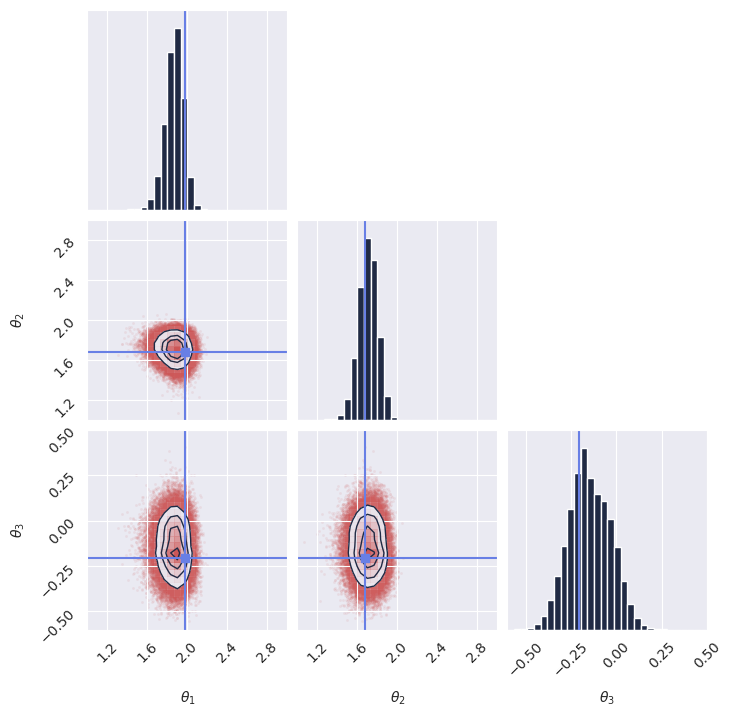
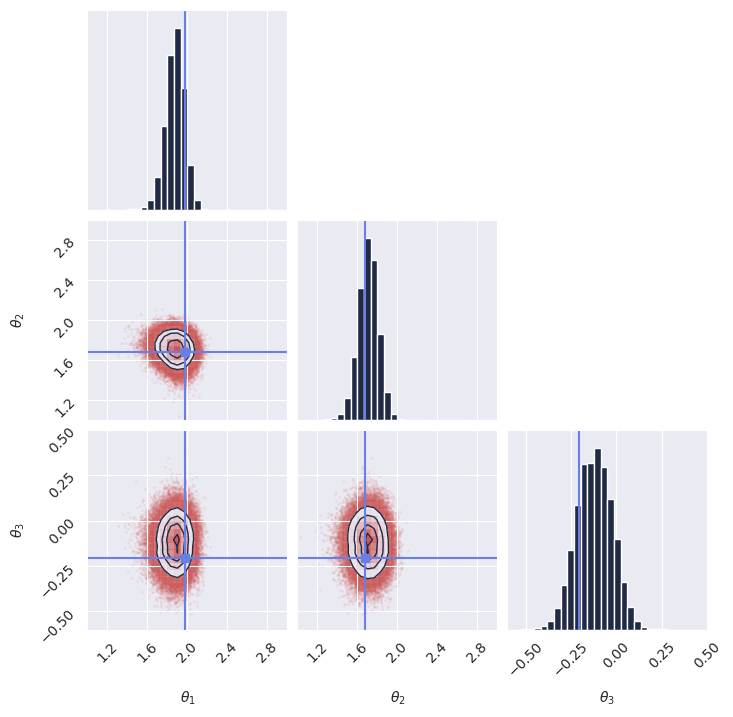
up

diff --git a/docs/basics/contributing.md b/docs/basics/contributing.md
@@ -15,7 +15,11 @@ To set up your development environment, please follow these steps:
 2.  **Install dependencies**:
     We recommend using a virtual environment.
     ```bash
-    pip install -e ".[examples,validation]"
+    pip install -e ".[examples,test,docs]"
+    ```
+
+    ```{note}
+    Python 3.11 or higher is required.
     ```
 
 ## Running Tests
@@ -45,22 +49,21 @@ GenSBI/
 │   │   ├── flux1/          # Flux1 transformer model
 │   │   ├── flux1joint/     # Flux1Joint variant
 │   │   ├── simformer/      # Simformer model
-│   │   ├── autoencoders/   # VAE and autoencoder models
+│   │   ├── embedding/      # Embedding networks
 │   │   ├── wrappers/       # Model wrappers for time/noise handling
 │   │   └── losses/         # Loss function implementations
 │   ├── recipes/             # High-level training pipelines
 │   │   ├── flux1.py
 │   │   ├── simformer.py
-│   │   ├── base.py         # AbstractPipeline base class
+│   │   ├── pipeline.py     # AbstractPipeline base class
 │   │   └── ...
 │   ├── flow_matching/       # Flow matching implementation
 │   │   ├── path/           # Interpolation paths (OT, etc.)
 │   │   ├── solver/         # ODE solvers
 │   │   └── loss/           # Flow matching loss
 │   ├── diffusion/           # Diffusion model implementation
-│   │   ├── sampler/        # Diffusion samplers
-│   │   ├── sde/            # Stochastic differential equations
-│   │   └── loss/           # Diffusion loss functions
+│   │   ├── path/           # Diffusion paths and schedules (EDM, etc.)
+│   │   └── solver/         # SDE solvers and samplers
 │   └── utils/               # Utility functions
 ├── test/                    # Test suite
 │   ├── test_flow_matching/
@@ -82,6 +85,7 @@ GenSBI/
 Models are Flax NNX neural network modules that define the architecture:
 
 - **Base Models**: Pure neural network definitions (e.g., `Flux1`, `Simformer`)
+- **Embedding**: Embedding networks for IDs and time.
 - **Model Wrappers**: Wrap models to provide a unified vector field and divergence interface for ODE/SDE samplers
   - `ConditionalWrapper`: For conditional inference (θ | x)
   - `JointWrapper`: For joint inference on multiple variables
@@ -98,7 +102,7 @@ When adding a new model:
 
 Recipes (Pipelines) are high-level interfaces that orchestrate training and inference:
 
-- **AbstractPipeline**: Base class defining the training loop, validation, checkpointing, and EMA
+- **AbstractPipeline** (in `pipeline.py`): Base class defining the training loop, validation, checkpointing, and EMA
 - **Specific Pipelines**: Combine a model with flow matching or diffusion (e.g., `Flux1FlowPipeline`)
 
 When adding a new pipeline:
@@ -111,7 +115,7 @@ When adding a new pipeline:
 
 Components for Optimal Transport Flow Matching:
 
-- **Paths** (`path/`): Define interpolation between source and target (e.g., `CondOTProbPath`)
+- **Paths** (`path/`): Define interpolation between source and target (e.g., `AffineProbPath` with `CondOTScheduler`)
 - **Solvers** (`solver/`): ODE solvers for inference (e.g., `ODESolver`)
 - **Loss** (`loss/`): Flow matching loss functions
 
@@ -119,9 +123,9 @@ Components for Optimal Transport Flow Matching:
 
 Components for diffusion models:
 
-- **SDEs** (`sde/`): Define noise schedules (VP, VE, EDM)
-- **Samplers** (`sampler/`): Inference samplers (e.g., `EulerSampler`)
-- **Loss** (`loss/`): Diffusion loss functions (score matching, denoising)
+- **Paths** (`path/`): Define noise schedules and paths (e.g., `EDMPath`)
+- **Solvers** (`solver/`): Inference samplers and solvers (e.g., `SDESolver`, `EDMSampler`)
+
 
 ### How to Add New Features
 
@@ -155,7 +159,7 @@ Components for diffusion models:
 #### Adding a New Training Feature
 
 1. If it's pipeline-specific: Override methods in your pipeline class
-2. If it's general: Add to `AbstractPipeline` in `src/gensbi/recipes/base.py`
+2. If it's general: Add to `AbstractPipeline` in `src/gensbi/recipes/pipeline.py`
 3. Add configuration options to `get_default_training_config()`
 4. Write tests in `test/test_recipes/`
 

diff --git a/docs/getting_started/quick_start.md b/docs/getting_started/quick_start.md
@@ -42,12 +42,12 @@ This example covers:
 The code below is a complete, runnable script:
 
 
-```{literalinclude} /examples/conditional_flow_pipeline.py
+```{literalinclude} /examples/flux1_flow_pipeline.py
 :language: python
 :linenos:
 ```
 
-```{image} /examples/conditional_flow_pipeline_marginals.png
+```{image} /examples/flux1_flow_pipeline_marginals.png
 :width: 600
 ```
 
